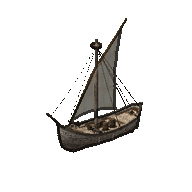
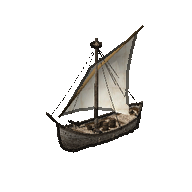
DHO 배 찍기가 돛을 돛대 둘레로 틀고 돛천을 부풀린다 — 삼각돛이 앞뒤(북 · 남)에서 선 하나로 납작하던 것(제보). 그림은 방향마다 왼쪽 · 오른쪽 가운데 돛이 넓게 보이는 쪽으로 틀고, 동영상은 한쪽으로 둔다. 기본 35° · 0.15, 창에서 고친다. 바사 그림을 다시 굽는다
Claude-Session: https://claude.ai/code/session_01BJuwbkemqPnGxnYtLkf1qM

diff --git a/tools/dho_ship_render.py b/tools/dho_ship_render.py
@@ -19,6 +19,7 @@ GV Online 클라이언트(환경 변수 GVO_DIR, 없으면 기본 설치 자리)
              줄마다 'ok …' 또는 'error …' 한 줄로 답한다. 배율은 --sprites 와 같다(여덟 표준 각도로 잰 네모).
   --skip-slots  뺄 돛 자리(0 ~ 4). 한 돛대에 가로돛 · 삼각돛이 겹쳐 서는 모형이 있어 고르게 한다.
   --info     그 모형의 돛 자리 번호만 알린다.
+  --sail-turn · --billow  돛을 돛대 둘레로 틀고(기본 35°, 그림은 각도마다 왼쪽 · 오른쪽 가운데 돛이 넓게 보이는 쪽) 돛천을 부풀린다(기본 0.15) — 앞뒤에서 봐도 돛이 납작하지 않게.
 
 음영은 정점 법선을 보간해 칠하고 빛은 화면 기준 왼쪽 위 앞에서 온다 — 배가 어느 쪽을 보든 같은 쪽이 밝다.
 작은 그림은 원본 배 그림처럼 가장자리 한 줄을 어둡게 둘러 바다 위에서 떠 보이게 한다.
@@ -45,8 +46,12 @@ def sail_slots(row):
     return [k for k in range(5) if row["bone_res"][k] != 0xFFFF or row["sail_res"][k] != 0xFFFF]
 
 
-def load_parts(gvo_dir, model_no, skip=()):
-    """[(정점, 법선|None, UV|None, 삼각형, 텍스처|None, 빛깔)] — 선체 · 돛대 · 돛 조각."""
+def load_parts(gvo_dir, model_no, skip=(), sail_turn=0.0, billow=0.0):
+    """[(정점, 법선|None, UV|None, 삼각형, 텍스처|None, 빛깔)] — 선체 · 돛대 · 돛 조각.
+
+    sail_turn 이면 돛 자원(활대 + 돛천)을 가장 가까운 돛대 축 둘레로 그 각도만큼 튼다 — 삼각돛은 배의 중심선과 나란해서
+    앞뒤에서 보면 선 하나로 납작했다. billow 면 돛천 가운데를 돛 크기의 그 몫만큼 불룩하게 해 곡면 음영이 서게 한다.
+    """
     sys.path.insert(0, gvo_dir)
     import texture as T
     import ships
@@ -60,6 +65,7 @@ def load_parts(gvo_dir, model_no, skip=()):
     sail = T.decode(T.load(bytes(Pack("0001/sa0000.bin").entry(0)))[0])
 
     parts = []
+    groups = []      # 조각마다 (돛 자원 번호 | None, 돛천인지)
 
     def part(resource, hull):
         if resource == 0xFFFF or (0x300, resource) not in index:
@@ -75,12 +81,16 @@ def load_parts(gvo_dir, model_no, skip=()):
                 continue
             tris = m.triangles(s)
             nrm = vb.get("normal")
+            pos = np.array(vb["pos"], float)
             if hull:
-                parts.append((vb["pos"], nrm, vb.get("uv0"), tris, base, (150, 120, 80)))
+                parts.append((pos, nrm, vb.get("uv0"), tris, base, (150, 120, 80)))
+                groups.append((None, False))
             elif vb["fvf"] == 0x316:
-                parts.append((vb["pos"], nrm, vb.get("uv0"), tris, sail, (230, 225, 210)))
+                parts.append((pos, nrm, vb.get("uv0"), tris, sail, SAIL_COLOR))
+                groups.append((resource, True))
             else:
-                parts.append((vb["pos"], nrm, None, tris, None, (120, 95, 60)))
+                parts.append((pos, nrm, None, tris, None, (120, 95, 60)))
+                groups.append((resource, False))
 
     part(row["hull_res"], True)
     for mast in range(5):
@@ -91,7 +101,66 @@ def load_parts(gvo_dir, model_no, skip=()):
         part(row["sail_res"][mast], False)
     if not parts:
         raise SystemExit(f"모형 {model_no} 의 조각을 못 읽었습니다")
+    if sail_turn or billow:
+        parts = shape_sails(parts, groups, sail_turn, billow)
     return parts
+
+
+def vertex_normals(pos, tris):
+    """삼각형 넓이로 가중한 정점 법선."""
+    n = np.zeros_like(pos)
+    t = np.asarray(tris)
+    face = np.cross(pos[t[:, 1]] - pos[t[:, 0]], pos[t[:, 2]] - pos[t[:, 0]])
+    for k in range(3):
+        np.add.at(n, t[:, k], face)
+    return n / np.maximum(np.linalg.norm(n, axis=1, keepdims=True), 1e-9)
+
+
+def mast_axes(hull):
+    """선체에서 높이 솟은 정점(돛대)을 z 로 무리 지어 돛대마다 (x, z) 하나."""
+    ymax = hull[:, 1].max()
+    tall = hull[hull[:, 1] > 0.55 * ymax]
+    if len(tall) == 0:
+        return [(0.0, 0.0)]
+    order = tall[np.argsort(tall[:, 2])]
+    axes, start = [], 0
+    for i in range(1, len(order) + 1):
+        if i == len(order) or order[i, 2] - order[i - 1, 2] > 250:
+            chunk = order[start:i]
+            axes.append((float(np.median(chunk[:, 0])), float(np.median(chunk[:, 2]))))
+            start = i
+    return axes
+
+
+def shape_sails(parts, groups, turn, billow):
+    hull = parts[0][0]
+    axes = mast_axes(hull)
+    out = list(parts)
+    resources = {g for g, _ in groups if g is not None}
+    for res in resources:
+        idx = [i for i, (g, _) in enumerate(groups) if g == res]
+        pts = np.concatenate([out[i][0] for i in idx])
+        cz = float(pts[:, 2].mean())
+        ax, az = min(axes, key=lambda m: abs(m[1] - cz))
+        a = np.radians(turn)
+        rot = np.array([[np.cos(a), 0, np.sin(a)], [0, 1, 0], [-np.sin(a), 0, np.cos(a)]])
+        for i in idx:
+            pos, nrm, uv, tris, tex, col = out[i]
+            p = pos - [ax, 0, az]
+            p = p @ rot.T + [ax, 0, az]
+            n = None if nrm is None else np.asarray(nrm) @ rot.T
+            if groups[i][1] and billow and uv is not None and len(p) >= 3:
+                # 돛천 평면의 법선(가장 작은 특이 벡터) 쪽으로, UV 가운데가 가장 불룩하게 민다.
+                centered = p - p.mean(0)
+                normal = np.linalg.svd(centered, full_matrices=False)[2][2]
+                lo, hi = uv.min(0), uv.max(0)
+                un = (uv - lo) / np.maximum(hi - lo, 1e-9)
+                size = float(np.ptp(centered @ np.linalg.svd(centered, full_matrices=False)[2][:2].T, axis=0).max())
+                bulge = billow * size * np.sin(np.pi * un[:, 0]) * np.sin(np.pi * un[:, 1])
+                p = p + bulge[:, None] * normal
+                n = vertex_normals(p, tris)
+            out[i] = (p, n, uv, tris, tex, col)
+    return out
 
 
 # 빛 — 화면 기준(오른쪽 · 위 · 카메라 쪽). 왼쪽 위 앞에서 비춘다.
@@ -188,11 +257,35 @@ def finish(cut, size):
     return Image.fromarray(px, "RGBA")
 
 
-class Shooter:
-    """모형 하나를 같은 배율로 찍는다 — 표준 여덟 각도로 잰 네모로 잘라 어느 각도로 찍어도 크기가 같다."""
+SAIL_COLOR = (230, 225, 210)   # 돛천 조각의 빛깔 — 돛천을 가려낼 때 쓴다
 
-    def __init__(self, parts, elev, work=384):
-        self.parts, self.elev, self.work = parts, elev, work
+
+def sail_area(parts, yaw, elev):
+    """그 각도에서 화면에 비친 돛천 넓이 — 돛을 어느 쪽으로 틀지 고를 때 쓴다."""
+    a, e = np.radians(yaw), np.radians(elev)
+    r = np.array([np.cos(a), 0.0, np.sin(a)])
+    u = np.array([-np.sin(a) * np.sin(e), np.cos(e), np.cos(a) * np.sin(e)])
+    total = 0.0
+    for pos, _, _, tris, _, col in parts:
+        if col != SAIL_COLOR:
+            continue
+        t = np.asarray(tris)
+        x, y = pos @ r, pos @ u
+        total += float(np.abs((x[t[:, 1]] - x[t[:, 0]]) * (y[t[:, 2]] - y[t[:, 0]])
+                              - (x[t[:, 2]] - x[t[:, 0]]) * (y[t[:, 1]] - y[t[:, 0]])).sum() / 2)
+    return total
+
+
+class Shooter:
+    """모형 하나를 같은 배율로 찍는다 — 표준 여덟 각도로 잰 네모로 잘라 어느 각도로 찍어도 크기가 같다.
+
+    돛을 양쪽으로 튼 두 벌(variants)을 받으면 각도마다 돛천이 화면에 더 넓게 비치는 쪽을 쓴다 — 한쪽으로만 틀면
+    앞뒤는 나아져도 대각선 둘에서 돛이 옆선이 되어 납작했다. 삼각돛은 바람에 따라 양쪽으로 넘기므로 어색하지 않다.
+    """
+
+    def __init__(self, variants, elev, work=384):
+        self.variants, self.elev, self.work = variants, elev, work
+        parts = variants[0]
         radius, self.ymin, self.ymax = bounds(parts)
         self.scale = (work / 2 - 4) / max(radius, self.ymax - self.ymin)
         self.raw = [self.render(-45 * i, elev) for i in range(8)]
@@ -209,7 +302,8 @@ class Shooter:
         self.crop = (int(cx - side / 2), int(cy - side / 2 + side * 0.04), int(cx + side / 2), int(cy + side / 2 + side * 0.04))
 
     def render(self, yaw, elev):
-        return render(self.parts, yaw, elev, self.work, self.work, self.scale, (self.ymin + self.ymax) / 2)
+        parts = max(self.variants, key=lambda v: sail_area(v, yaw, elev))
+        return render(parts, yaw, elev, self.work, self.work, self.scale, (self.ymin + self.ymax) / 2)
 
     def save(self, im, out, direction, hd):
         cut = im.crop(self.crop)
@@ -218,16 +312,16 @@ class Shooter:
             finish(cut, 192).save(os.path.join(out, f"ship_{direction}_hd.png"))
 
 
-def sprites(parts, out, elev, hd):
+def sprites(variants, out, elev, hd):
     # 게임 방향 i(0 북부터 반시계)는 렌더 각도 −45°·i 다 — yaw 90 이면 뱃머리가 오른쪽(동)이다.
-    shooter = Shooter(parts, elev)
+    shooter = Shooter(variants, elev)
     for i, im in enumerate(shooter.raw):
         shooter.save(im, out, i, hd)
         print(f"sprite {i + 1}/8", flush=True)
 
 
-def serve(parts, out, elev):
-    shooter = Shooter(parts, elev)
+def serve(variants, out, elev):
+    shooter = Shooter(variants, elev)
     print("ready", flush=True)
     for line in sys.stdin:
         words = line.split()
@@ -283,6 +377,8 @@ def main():
     ap.add_argument("--skip-slots", default="", help="뺄 돛 자리 번호(0 ~ 4, 쉼표로)")
     ap.add_argument("--info", action="store_true", help="돛 자리 번호만 'slots 0,1' 로 알린다")
     ap.add_argument("--serve", action="store_true", help="표준 입력으로 view · shot 을 받는다")
+    ap.add_argument("--sail-turn", type=float, default=35, help="돛을 돛대 둘레로 트는 각도(도)")
+    ap.add_argument("--billow", type=float, default=0.15, help="돛천을 부풀리는 몫(돛 크기의 몫)")
     args = ap.parse_args()
 
     if args.info:
@@ -290,13 +386,17 @@ def main():
         return
     os.makedirs(args.out, exist_ok=True)
     skip = {int(k) for k in args.skip_slots.split(",") if k.strip()}
-    parts = load_parts(args.gvo, args.model, skip)
+    parts = load_parts(args.gvo, args.model, skip, args.sail_turn, args.billow)
     print(f"parts {len(parts)}", flush=True)
+    # 그림은 돛을 양쪽으로 튼 두 벌에서 각도마다 고른다. 동영상은 돌아가는 동안 돛이 뒤집히지 않게 한 벌만 쓴다.
+    variants = [parts]
+    if args.sail_turn and (args.sprites or args.serve):
+        variants.append(load_parts(args.gvo, args.model, skip, -args.sail_turn, args.billow))
     if args.serve:
-        serve(parts, args.out, args.sprite_elev)
+        serve(variants, args.out, args.sprite_elev)
         return
     if args.sprites:
-        sprites(parts, args.out, args.sprite_elev, args.hd)
+        sprites(variants, args.out, args.sprite_elev, args.hd)
     if args.frames > 0:
         bg = tuple(int(c) for c in args.bg.split(","))
         frames(parts, args.out, args.frames, args.width, args.height, args.elev, bg, args.turns, args.start)

diff --git a/CdsHelper.Main/UI/Views/DhoShipShotDialog.cs b/CdsHelper.Main/UI/Views/DhoShipShotDialog.cs
@@ -37,6 +37,8 @@ public sealed class DhoShipShotDialog : Window
         public double Elevation { get; set; } = 15;
         public double Turns { get; set; } = 1;
         public string Background { get; set; } = "40,60,90";
+        public double SailTurn { get; set; } = 35;
+        public double Billow { get; set; } = 0.15;
     }
 
     private static string OptionsPath => Path.Combine(
@@ -48,7 +50,7 @@ public sealed class DhoShipShotDialog : Window
     private readonly ComboBox _ships = new() { Width = 220, Margin = new Thickness(0, 0, 8, 0) };
     private readonly WrapPanel _slots = new();
     private readonly TextBox _spriteElev = Box(50), _frames = Box(50), _fps = Box(40), _width = Box(50), _height = Box(50),
-                             _elev = Box(50), _turns = Box(50), _bg = Box(90);
+                             _elev = Box(50), _turns = Box(50), _bg = Box(90), _sailTurn = Box(50), _billow = Box(50);
     private readonly CheckBox _hd = new() { Content = "고해상도(192x192)도", VerticalAlignment = VerticalAlignment.Center };
     private readonly WrapPanel _previews = new() { Margin = new Thickness(0, 6, 0, 0) };
     private readonly Image _movieFrame = new() { Width = 240, Height = 176, Stretch = Stretch.Uniform, Margin = new Thickness(0, 6, 0, 0) };
@@ -95,6 +97,8 @@ public sealed class DhoShipShotDialog : Window
         _elev.Text = $"{_options.Elevation}";
         _turns.Text = $"{_options.Turns}";
         _bg.Text = _options.Background;
+        _sailTurn.Text = $"{_options.SailTurn}";
+        _billow.Text = $"{_options.Billow}";
         _pitch.Value = _options.SpriteElevation;
 
         var form = new StackPanel { Margin = new Thickness(14) };
@@ -115,6 +119,9 @@ public sealed class DhoShipShotDialog : Window
         _model.LostFocus += (_, _) => _ = ReadSlots();
         form.Children.Add(Row(_ships, Label("모형 번호"), _model, MakeButton("돛 자리 읽기", () => _ = ReadSlots())));
         form.Children.Add(Row(Label("돛 자리"), _slots));
+        form.Children.Add(Row(Label("돛 틀기(도)"), _sailTurn, Label("돛 부풀림"), _billow));
+        form.Children.Add(Note("돛을 돛대 둘레로 틀고 돛천 가운데를 부풀린다 — 삼각돛은 그대로면 앞뒤에서 선 하나로 납작하다. "
+                             + "그림은 방향마다 왼쪽 · 오른쪽 가운데 돛이 넓게 보이는 쪽으로 틀고, 동영상은 한쪽으로 둔다. 0 이면 원래 모형 그대로다."));
         form.Children.Add(Note("모형 하나에 돛 자리가 여럿이다. 한 돛대에 가로돛과 삼각돛이 겹쳐 서는 모형(바사 따위)은 하나만 남긴다."));
 
         form.Children.Add(Section("항해 지도 그림 (8방향)"));
@@ -201,6 +208,13 @@ public sealed class DhoShipShotDialog : Window
             _slots.Children.Add(new CheckBox { Content = $"자리 {part}", Tag = part, IsChecked = true, Margin = new Thickness(0, 0, 12, 0), VerticalAlignment = VerticalAlignment.Center });
     }
 
+    /// <summary>돛 틀기 · 부풀림 인자 — 숫자가 아니면 스크립트 기본값을 쓴다.</summary>
+    private string[] SailArgs() =>
+    [
+        .. double.TryParse(_sailTurn.Text.Trim(), out double turn) ? new[] { "--sail-turn", $"{turn}" } : [],
+        .. double.TryParse(_billow.Text.Trim(), out double billow) ? new[] { "--billow", $"{billow}" } : [],
+    ];
+
     private string SkipSlots() => string.Join(",", _slots.Children.OfType<CheckBox>().Where(c => c.IsChecked != true).Select(c => (string)c.Tag));
 
     // ── 찍기 ──────────────────────────────────────────────────────────
@@ -210,6 +224,7 @@ public sealed class DhoShipShotDialog : Window
         if (!int.TryParse(_model.Text.Trim(), out int model)) { _status.Text = "모형 번호를 적어 주십시오."; return; }
         string out_ = NewWorkFolder();
         var args = new List<string> { "--model", $"{model}", "--out", out_, "--sprites", "--sprite-elev", _spriteElev.Text.Trim(), "--skip-slots", SkipSlots() };
+        args.AddRange(SailArgs());
         if (_hd.IsChecked == true) args.Add("--hd");
         var (ok, _) = await RunScript(args);
         if (!ok) return;
@@ -289,7 +304,7 @@ public sealed class DhoShipShotDialog : Window
         try
         {
             string folder = SpriteFolder ?? NewWorkFolder();
-            string key = $"{model}|{SkipSlots()}|{_spriteElev.Text.Trim()}|{folder}|{_dho.Text.Trim()}";
+            string key = $"{model}|{SkipSlots()}|{_spriteElev.Text.Trim()}|{folder}|{_dho.Text.Trim()}|{string.Join(' ', SailArgs())}";
             if (_server is not { HasExited: false } || key != _serverKey)
             {
                 StopServer();
@@ -339,8 +354,9 @@ public sealed class DhoShipShotDialog : Window
             UseShellExecute = false, CreateNoWindow = true, WorkingDirectory = Path.GetTempPath(),
         };
         start.Environment["PYTHONIOENCODING"] = "utf-8";
-        foreach (var a in new[] { script, "--gvo", gvo, "--model", $"{model}", "--out", folder, "--serve",
-                                  "--sprite-elev", _spriteElev.Text.Trim(), "--skip-slots", SkipSlots() })
+        string[] arguments = [script, "--gvo", gvo, "--model", $"{model}", "--out", folder, "--serve",
+                              "--sprite-elev", _spriteElev.Text.Trim(), "--skip-slots", SkipSlots(), .. SailArgs()];
+        foreach (var a in arguments)
             start.ArgumentList.Add(a);
         try
         {
@@ -399,7 +415,7 @@ public sealed class DhoShipShotDialog : Window
         string out_ = NewWorkFolder();
         var (ok, _) = await RunScript(["--model", $"{model}", "--out", out_, "--frames", _frames.Text.Trim(),
                                        "--width", $"{width}", "--height", $"{height}", "--elev", _elev.Text.Trim(),
-                                       "--turns", _turns.Text.Trim(), "--bg", _bg.Text.Trim(), "--skip-slots", SkipSlots()]);
+                                       "--turns", _turns.Text.Trim(), "--bg", _bg.Text.Trim(), "--skip-slots", SkipSlots(), .. SailArgs()]);
         if (!ok) return;
 
         var frames = Directory.GetFiles(out_, "frame_*.png").OrderBy(f => f, StringComparer.Ordinal).ToList();
@@ -540,6 +556,8 @@ public sealed class DhoShipShotDialog : Window
         if (double.TryParse(_elev.Text.Trim(), out double elev)) _options.Elevation = elev;
         if (double.TryParse(_turns.Text.Trim(), out double turns)) _options.Turns = turns;
         _options.Background = _bg.Text.Trim();
+        if (double.TryParse(_sailTurn.Text.Trim(), out double sailTurn)) _options.SailTurn = sailTurn;
+        if (double.TryParse(_billow.Text.Trim(), out double billow)) _options.Billow = billow;
         try
         {
             Directory.CreateDirectory(Path.GetDirectoryName(OptionsPath)!);
